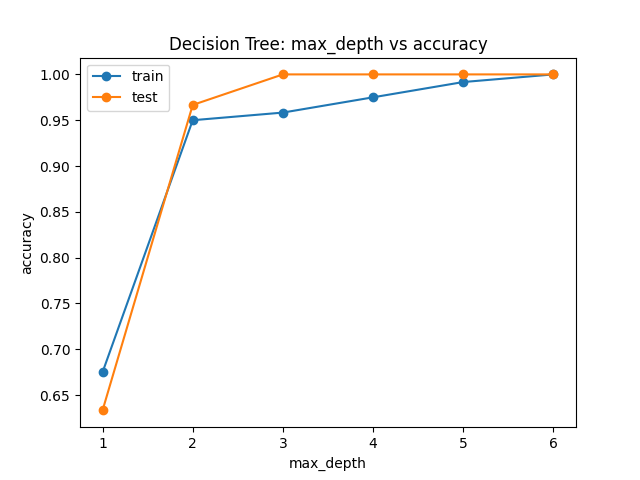
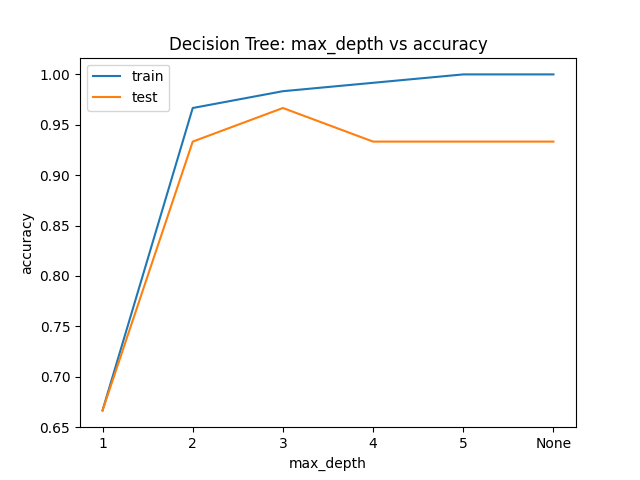
Enhance max depth experiment

diff --git a/src/experiments/max_depth.py b/src/experiments/max_depth.py
@@ -1,15 +1,25 @@
-from sklearn.metrics import accuracy_score
+from pathlib import Path
+
 import matplotlib.pyplot as plt
+from sklearn.metrics import accuracy_score
 
 from src.data_loader import load_data
 from src.model_factory import create_model
 
 
+ARTIFACTS_DIR = Path("artifacts")
+PLOT_PATH = ARTIFACTS_DIR / "max_depth_plot.png"
+
+
 def run():
+    ARTIFACTS_DIR.mkdir(parents=True, exist_ok=True)
+
     X_train, X_test, y_train, y_test = load_data()
 
     depths = [1, 2, 3, 4, 5, None]
 
+    train_scores = []
+    test_scores = []
     results = []
 
     for depth in depths:
@@ -19,32 +29,29 @@ def run():
         y_train_pred = model.predict(X_train)
         y_test_pred = model.predict(X_test)
 
-        train_accuracy = accuracy_score(y_train, y_train_pred)
-        test_accuracy = accuracy_score(y_test, y_test_pred)
+        train_acc = accuracy_score(y_train, y_train_pred)
+        test_acc = accuracy_score(y_test, y_test_pred)
+
+        train_scores.append(train_acc)
+        test_scores.append(test_acc)
 
         results.append(
             {
                 "depth": depth,
-                "train_accuracy": train_accuracy,
-                "test_accuracy": test_accuracy,
+                "train_accuracy": train_acc,
+                "test_accuracy": test_acc,
             }
         )
 
-    # --- chart ---
-    depths_plot = [r["depth"] if r["depth"] is not None else 6 for r in results]
-    train_scores = [r["train_accuracy"] for r in results]
-    test_scores = [r["test_accuracy"] for r in results]
+        print(f"depth={depth} | train={train_acc:.3f} | test={test_acc:.3f}")
 
     plt.figure()
-    plt.plot(depths_plot, train_scores, marker="o", label="train")
-    plt.plot(depths_plot, test_scores, marker="o", label="test")
-
+    plt.plot([str(d) for d in depths], train_scores, label="train")
+    plt.plot([str(d) for d in depths], test_scores, label="test")
     plt.xlabel("max_depth")
     plt.ylabel("accuracy")
     plt.title("Decision Tree: max_depth vs accuracy")
     plt.legend()
-
-    plt.savefig("artifacts/max_depth_plot.png")
-    plt.close()
+    plt.savefig(PLOT_PATH)
 
     return results

diff --git a/src/data_loader.py b/src/data_loader.py
@@ -8,4 +8,4 @@ def load_data(test_size=0.2, random_state=42):
     X = iris.data
     y = iris.target
 
-    return train_test_split(X, y, test_size=test_size, random_state=random_state)
+    return train_test_split(X, y, test_size=test_size, random_state=random_state, stratify=y)

diff --git a/README.md b/README.md
@@ -40,16 +40,14 @@ Features:
 ## How to run
 
 ```bash
-git clone https://github.com/YOUR_USERNAME/iris-classifier.git
-cd iris-classifier
+git clone https://github.com/szymoniwacz/ai-iris-classifier.git
+cd ai-iris-classifier
 
 python3 -m venv venv
 source venv/bin/activate  # macOS / Linux
 # venv\Scripts\activate   # Windows
 
 pip install -r requirements.txt
-
-jupyter notebook
 ```
 
 ---
@@ -81,12 +79,21 @@ Why:
 
 ### Example output
 
-    depth=1, train=0.675, test=0.633
-    depth=2, train=0.950, test=0.967
-    depth=3, train=0.958, test=1.000
-    depth=4, train=0.975, test=1.000
-    depth=5, train=0.992, test=1.000
-    depth=None, train=1.000, test=1.000
+    depth=1 | train=0.667 | test=0.667
+    depth=2 | train=0.967 | test=0.933
+    depth=3 | train=0.983 | test=0.967
+    depth=4 | train=0.992 | test=0.933
+    depth=5 | train=1.000 | test=0.933
+    depth=None | train=1.000 | test=0.933
+
+    Best result:
+    - max_depth = 3
+    - test accuracy = 0.967
+
+    Interpretation:
+    - depth 1 → underfitting
+    - depth 3 → best generalization
+    - deeper → overfitting
 
 ### Plot
 
